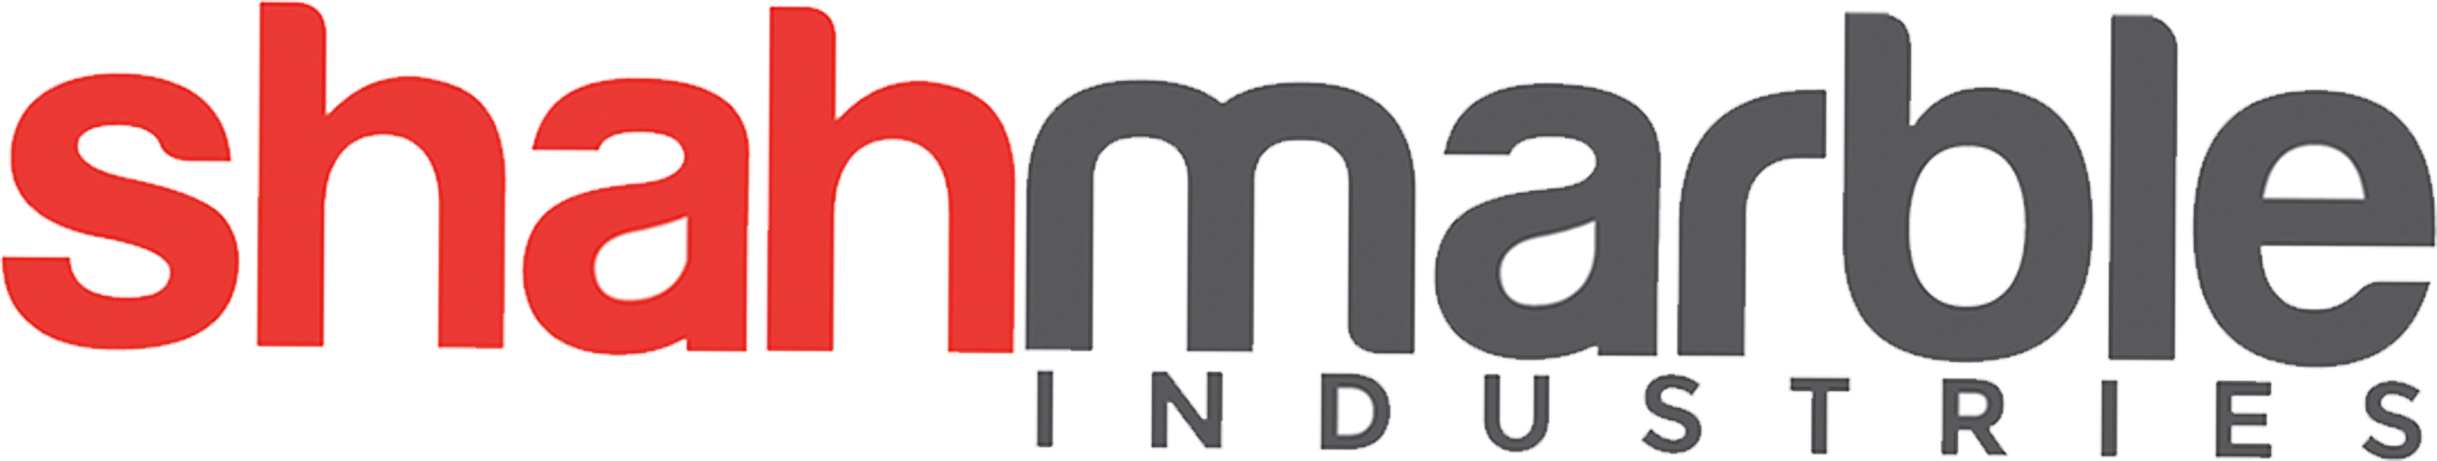
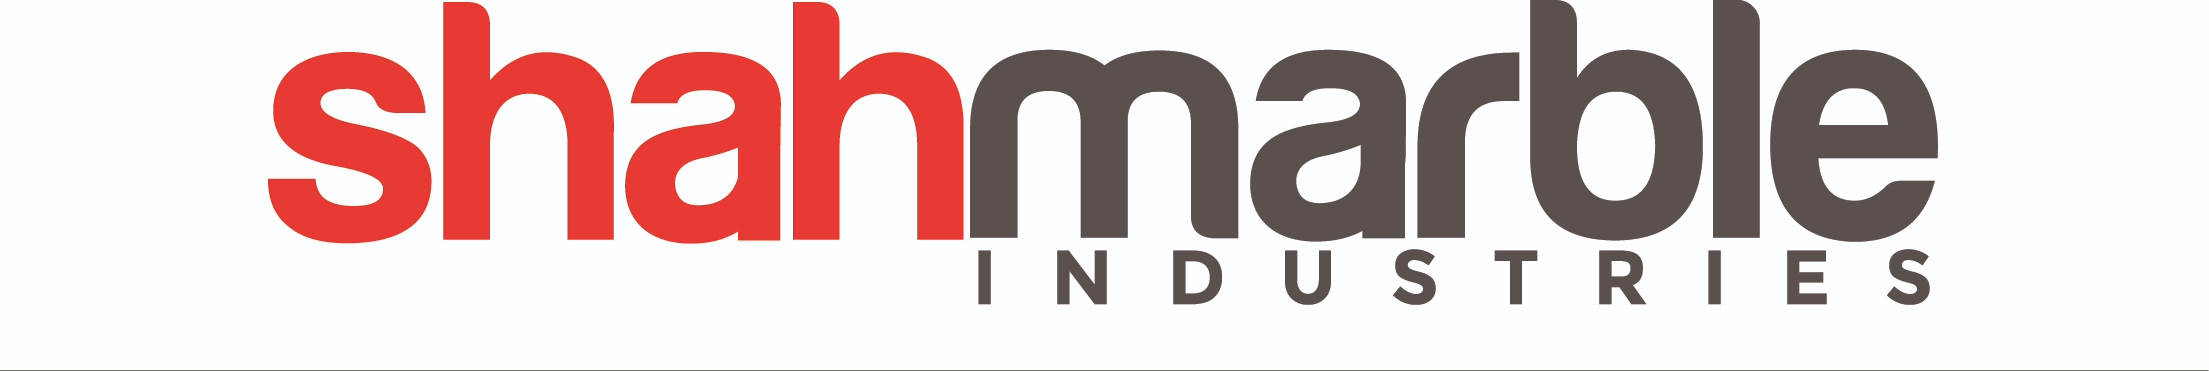
Move Partners section above gallery, rename Shah Marbles to Presenting Partner, add Visit Physio as Physiotherapy Partner, add sponsor acknowledgment to register card
Sponsors get more prominence — section now sits above the gallery
instead of buried before the final CTA. Tier hierarchy on
runwithdina.com/monsoon-miles/#partners and registration flyer:

  Title Sponsor       — FICCI FLO Vadodara
  Presenting Partner  — Shah Marble Industries (renamed from Supporting)
  Co-Sponsors         — Aura, Aadicura
  Physiotherapy       — Visit Physio (new — on-ground physio + stretching)
  Supporting + Tech   — Amrutam, Mohanlal, Vishnu, Fast&Up, Vad Marathon, fintale.io

Tier rename fixes the duplicate "Supporting Partner / Supporting Partners"
labels. Visit Physio is a service partner (physio at the venue) rather
than a cash sponsor, hence its own labelled tier.

Register page (monsoon-miles/register.html) gets a compact acknowledgment
strip above the form: text + 4 logos + link to full partners list. Makes
clear the registration fee goes into the run; the sponsors are why the
medals, hydration, and pool party exist.

Shah Marbles logo replaced with the new transparent PNG (background
removed via Adobe Express) — renders cleanly on white sponsor cards
without the previous JPG's background artefacts.

diff --git a/monsoon-miles/index.html b/monsoon-miles/index.html
@@ -1622,6 +1622,21 @@ select.waitlist-input option { background: #1a1a1a; color: var(--white); }
   padding: 16px 28px;
 }
 
+/* PHYSIOTHERAPY PARTNER — Visit Physio */
+.physio-partner-row {
+  display: flex; justify-content: center;
+  margin-bottom: clamp(2rem, 4vh, 3rem);
+}
+.physio-partner-card {
+  width: min(320px, 100%);
+  height: 130px;
+  padding: 14px 24px;
+}
+.physio-partner-card img {
+  max-width: 80%;
+  max-height: 85%;
+}
+
 /* SUPPORTING + TECH ROW */
 .supporting-row {
   display: grid;
@@ -2498,6 +2513,62 @@ input[type="date"].form-input {
   </div>
 </section>
 
+<!-- SPONSORS / PARTNERS -->
+<section class="sponsors-section" id="partners">
+  <div class="sponsors-section-bg"></div>
+  <div class="sponsors-section-label">Made possible by</div>
+  <h2 class="sponsors-section-title">Brands that<br><em>show up.</em></h2>
+  <p class="sponsors-section-sub">A non-profit run survives because of people who show up — and brands that back the people. Every one of these partners chose to back this event. Without them, there's no rain run.</p>
+
+  <!-- TITLE SPONSOR -->
+  <div class="sponsor-tier-label">Title Sponsor</div>
+  <div class="title-sponsor-row">
+    <div class="sponsor-card title-sponsor-card">
+      <img src="Photos/sponsors/ficci-flo.png" alt="FICCI FLO Vadodara" loading="lazy">
+    </div>
+  </div>
+
+  <!-- PRESENTING PARTNER -->
+  <div class="sponsor-tier-label">Presenting Partner</div>
+  <div class="supporting-partner-row">
+    <div class="sponsor-card supporting-partner-card">
+      <img src="Photos/sponsors/shah-marbles.png" alt="Shah Marble Industries" loading="lazy">
+    </div>
+  </div>
+
+  <!-- CO-SPONSORS -->
+  <div class="sponsor-tier-label">Co-Sponsors</div>
+  <div class="co-sponsors-row">
+    <div class="sponsor-card co-sponsor-card"><img src="Photos/sponsors/aura.png" alt="Aura School" loading="lazy"></div>
+    <div class="sponsor-card co-sponsor-card"><img src="Photos/sponsors/aadicura.png" alt="Aadicura Hospital" loading="lazy"></div>
+  </div>
+
+  <!-- PHYSIOTHERAPY PARTNER -->
+  <div class="sponsor-tier-label">Physiotherapy Partner</div>
+  <div class="physio-partner-row">
+    <div class="sponsor-card physio-partner-card">
+      <img src="Photos/sponsors/visit-physio.png" alt="Visit Physio" loading="lazy">
+    </div>
+  </div>
+
+  <!-- SUPPORTING + TECHNOLOGY -->
+  <div class="sponsor-tier-label-row">
+    <div class="sponsor-tier-label">Supporting Partners</div>
+    <div class="sponsor-tier-label">Technology</div>
+  </div>
+  <div class="supporting-row">
+    <div class="sponsor-card sp-card-sm"><img src="Photos/sponsors/amrutam.png" alt="Amrutam" loading="lazy"></div>
+    <div class="sponsor-card sp-card-sm"><img src="Photos/sponsors/mohanlal.png" alt="Mohanlal Tea" loading="lazy"></div>
+    <div class="sponsor-card sp-card-sm"><img src="Photos/sponsors/vishnu-optical.jpg" alt="Vishnu Optical" loading="lazy"></div>
+    <div class="sponsor-card sp-card-sm"><img src="Photos/sponsors/fast-and-up.png" alt="Fast&amp;Up" loading="lazy"></div>
+    <div class="sponsor-card sp-card-sm"><img src="Photos/sponsors/vadodara-marathon.jpg" alt="Vadodara Marathon" loading="lazy"></div>
+    <div class="sponsor-card sp-card-sm tech-card">
+      <img src="Photos/sponsors/fintale.jpg" alt="fintale.io" loading="lazy">
+      <div class="tech-text">fintale<span class="dot">.</span>io</div>
+    </div>
+  </div>
+</section>
+
 <!-- GALLERY -->
 <section class="gallery" id="gallery">
   <div class="gallery-header">
@@ -2709,54 +2780,6 @@ input[type="date"].form-input {
   <div class="faq-item">
     <button class="faq-q" data-hover onclick="toggleFaq(this)">Is there parking at Suncity Club and Resort?<span class="faq-q-icon">+</span></button>
     <div class="faq-a"><div class="faq-a-inner">Yes. Suncity Club and Resort has plenty of parking space. Get there by 4:30 AM and you'll find a spot easily. Gates close at 4:50 so don't cut it too close.</div></div>
-  </div>
-</section>
-
-<!-- SPONSORS / PARTNERS -->
-<section class="sponsors-section" id="partners">
-  <div class="sponsors-section-bg"></div>
-  <div class="sponsors-section-label">Made possible by</div>
-  <h2 class="sponsors-section-title">Brands that<br><em>show up.</em></h2>
-  <p class="sponsors-section-sub">A non-profit run survives because of people who show up — and brands that back the people. These are the ones backing us in 2026.</p>
-
-  <!-- TITLE SPONSOR -->
-  <div class="sponsor-tier-label">Title Sponsor</div>
-  <div class="title-sponsor-row">
-    <div class="sponsor-card title-sponsor-card">
-      <img src="Photos/sponsors/ficci-flo.png" alt="FICCI FLO Vadodara" loading="lazy">
-    </div>
-  </div>
-
-  <!-- SUPPORTING PARTNER -->
-  <div class="sponsor-tier-label">Supporting Partner</div>
-  <div class="supporting-partner-row">
-    <div class="sponsor-card supporting-partner-card">
-      <img src="Photos/sponsors/shah-marbles.png" alt="Shah Marble Industries" loading="lazy">
-    </div>
-  </div>
-
-  <!-- CO-SPONSORS -->
-  <div class="sponsor-tier-label">Co-Sponsors</div>
-  <div class="co-sponsors-row">
-    <div class="sponsor-card co-sponsor-card"><img src="Photos/sponsors/aura.png" alt="Aura School" loading="lazy"></div>
-    <div class="sponsor-card co-sponsor-card"><img src="Photos/sponsors/aadicura.png" alt="Aadicura Hospital" loading="lazy"></div>
-  </div>
-
-  <!-- SUPPORTING + TECHNOLOGY -->
-  <div class="sponsor-tier-label-row">
-    <div class="sponsor-tier-label">Supporting Partners</div>
-    <div class="sponsor-tier-label">Technology</div>
-  </div>
-  <div class="supporting-row">
-    <div class="sponsor-card sp-card-sm"><img src="Photos/sponsors/amrutam.png" alt="Amrutam" loading="lazy"></div>
-    <div class="sponsor-card sp-card-sm"><img src="Photos/sponsors/mohanlal.png" alt="Mohanlal Tea" loading="lazy"></div>
-    <div class="sponsor-card sp-card-sm"><img src="Photos/sponsors/vishnu-optical.jpg" alt="Vishnu Optical" loading="lazy"></div>
-    <div class="sponsor-card sp-card-sm"><img src="Photos/sponsors/fast-and-up.png" alt="Fast&amp;Up" loading="lazy"></div>
-    <div class="sponsor-card sp-card-sm"><img src="Photos/sponsors/vadodara-marathon.jpg" alt="Vadodara Marathon" loading="lazy"></div>
-    <div class="sponsor-card sp-card-sm tech-card">
-      <img src="Photos/sponsors/fintale.jpg" alt="fintale.io" loading="lazy">
-      <div class="tech-text">fintale<span class="dot">.</span>io</div>
-    </div>
   </div>
 </section>
 

diff --git a/monsoon-miles/register.html b/monsoon-miles/register.html
@@ -256,6 +256,52 @@ select.reg-input option { color: #fff; background: var(--charcoal); }
 }
 .psc-close:hover { background: rgba(255,255,255,0.1); color: #fff; }
 
+/* Sponsor acknowledgment strip on register card */
+.reg-sponsors {
+  margin: 0 0 1.6rem;
+  padding: 0.95rem 0.95rem 1rem;
+  background: rgba(255,255,255,0.025);
+  border: 1px solid rgba(255,255,255,0.06);
+  border-radius: 0.7rem;
+}
+.reg-sponsors-text {
+  font-size: 0.75rem;
+  color: var(--silver);
+  line-height: 1.55;
+  margin-bottom: 0.7rem;
+}
+.reg-sponsors-text strong { color: var(--rain-light); font-weight: 600; }
+.reg-sponsors-logos {
+  display: grid;
+  grid-template-columns: repeat(4, 1fr);
+  gap: 5px;
+  margin-bottom: 0.55rem;
+}
+.reg-sp-card {
+  background: var(--pure);
+  border-radius: 5px;
+  height: 44px;
+  display: flex; align-items: center; justify-content: center;
+  padding: 5px 7px;
+}
+.reg-sp-card img {
+  max-width: 100%; max-height: 75%;
+  object-fit: contain;
+}
+.reg-sponsors-link {
+  font-size: 0.65rem;
+  font-family: var(--mono);
+  letter-spacing: 0.12em;
+  text-align: center;
+  text-transform: uppercase;
+  color: var(--slate);
+}
+.reg-sponsors-link a {
+  color: var(--rain-light);
+  text-decoration: none;
+}
+.reg-sponsors-link a:hover { text-decoration: underline; }
+
 /* Confetti */
 #confettiCanvas {
   position: fixed; inset: 0; z-index: 10000;
@@ -286,6 +332,18 @@ select.reg-input option { color: #fff; background: var(--charcoal); }
   <div class="reg-card">
     <h1 class="reg-title">Register for <span id="regCategory">1 Hour</span></h1>
     <p class="reg-price" id="regPrice">&#8377;799</p>
+
+    <!-- Sponsor acknowledgment -->
+    <div class="reg-sponsors">
+      <p class="reg-sponsors-text">This non-profit run is brought to you by <strong>FICCI FLO Vadodara</strong>, <strong>Shah Marble Industries</strong> and a handful of brands who chose to back it. Your registration goes into the run &mdash; the medals, hydration, and pool party are theirs.</p>
+      <div class="reg-sponsors-logos">
+        <div class="reg-sp-card"><img src="Photos/sponsors/ficci-flo.png" alt="FICCI FLO"></div>
+        <div class="reg-sp-card"><img src="Photos/sponsors/shah-marbles.png" alt="Shah Marbles"></div>
+        <div class="reg-sp-card"><img src="Photos/sponsors/aura.png" alt="Aura"></div>
+        <div class="reg-sp-card"><img src="Photos/sponsors/aadicura.png" alt="Aadicura"></div>
+      </div>
+      <p class="reg-sponsors-link"><a href="./#partners">See all 10 partners &rarr;</a></p>
+    </div>
 
     <form id="regForm" onsubmit="initiatePayment(event)">
       <input type="text" id="regName" placeholder="Full Name" required class="reg-input">
